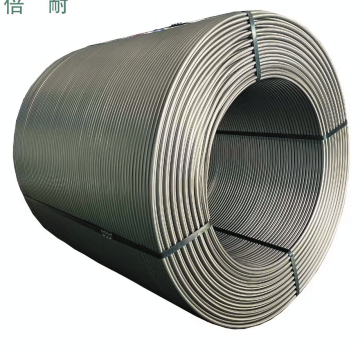
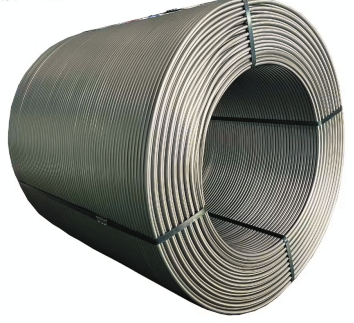
SEO improvements, certifications section, packing standards,   content updates

diff --git a/src/components/HomeView.tsx b/src/components/HomeView.tsx
@@ -1,6 +1,6 @@
 import React, { useState } from 'react';
 import { motion, AnimatePresence } from 'motion/react';
-import { ArrowRight, ChevronRight, Star, ShieldCheck, Factory, Award } from 'lucide-react';
+import { ArrowRight, ChevronRight, Star, ShieldCheck, Factory, Award, ZoomIn, X } from 'lucide-react';
 import { PRODUCTS } from '../data';
 import { Product } from '../types';
 
@@ -12,6 +12,7 @@ interface HomeViewProps {
 
 export default function HomeView({ setTab, onSelectProduct, onOpenCatalogueModal }: HomeViewProps) {
   const [hoveredProduct, setHoveredProduct] = useState<string | null>(null);
+  const [zoomedImage, setZoomedImage] = useState<{ src: string; name: string } | null>(null);
 
   const homeProducts = PRODUCTS;
 
@@ -29,7 +30,7 @@ export default function HomeView({ setTab, onSelectProduct, onOpenCatalogueModal
             className="space-y-8"
           >
             <h1 className="font-display text-4xl md:text-5xl lg:text-6xl font-extrabold text-white leading-tight tracking-tight">
-              Precision foundry alloys for a stronger world
+              Engineered Foundry Alloys. Consistent Chemistry. Global Delivery.
             </h1>
             <p className="font-sans text-lg text-surface-variant max-w-xl border-l-4 border-industrial-red pl-4 font-light">
               ISO 9001:2015 Certified | 25,000 MT/Year Capacity | 35+ Countries
@@ -102,7 +103,7 @@ export default function HomeView({ setTab, onSelectProduct, onOpenCatalogueModal
         <div className="max-w-[1440px] mx-auto px-6 md:px-12 w-full grid grid-cols-1 lg:grid-cols-2 gap-12 items-center">
           <div className="space-y-6">
             <h2 className="font-display text-3xl md:text-4xl font-bold text-dark-navy" id="about-snippet-title">
-              Uncompromising quality in metallurgy
+              Consistent nodularity, controlled chemistry, and reliable performance across SG iron foundries worldwide
             </h2>
             <div className="w-16 h-1.5 bg-industrial-red"></div>
             <p className="font-sans text-base text-on-variant leading-relaxed text-slate-600">
@@ -129,7 +130,7 @@ export default function HomeView({ setTab, onSelectProduct, onOpenCatalogueModal
         </div>
       </section>
 
-      {/* SECTION 4 - PRODUCTS GRID */}
+      {/* SECTION 5 - PRODUCTS GRID */}
       <section className="bg-surface-low py-20 md:py-28 w-full" id="products-grid-section">
         <div className="max-w-[1440px] mx-auto px-6 md:px-12 w-full">
           <div className="text-center mb-16">
@@ -149,14 +150,19 @@ export default function HomeView({ setTab, onSelectProduct, onOpenCatalogueModal
                 onMouseLeave={() => setHoveredProduct(null)}
               >
                 <div>
-                  <div className="relative w-32 h-32 rounded-full mx-auto mb-6 bg-slate-50 border-4 border-slate-100 flex items-center justify-center overflow-hidden">
-                    <img 
-                      alt={p.name} 
-                      className="w-full h-full object-cover transition-transform duration-500 hover:scale-110" 
-                      src={p.image} 
+                  <div
+                    className="relative w-32 h-32 rounded-full mx-auto mb-6 bg-slate-50 border-4 border-slate-100 overflow-hidden cursor-zoom-in group/img"
+                    onClick={(e) => { e.stopPropagation(); setZoomedImage({ src: p.image, name: p.name }); }}
+                  >
+                    <img
+                      alt={p.name}
+                      className="w-full h-full object-cover transition-transform duration-500 group-hover/img:scale-110"
+                      src={p.image}
                       referrerPolicy="no-referrer"
                     />
-                    <div className="absolute inset-0 bg-brand-primary/5 hover:bg-transparent transition-colors duration-300"></div>
+                    <div className="absolute inset-0 bg-black/0 group-hover/img:bg-black/20 transition-all duration-300 flex items-center justify-center">
+                      <ZoomIn className="text-white opacity-0 group-hover/img:opacity-100 transition-opacity duration-300" size={20} />
+                    </div>
                   </div>
                   <h3 className="font-display text-xl font-bold text-dark-navy mb-3">
                     {p.name}
@@ -180,7 +186,44 @@ export default function HomeView({ setTab, onSelectProduct, onOpenCatalogueModal
         </div>
       </section>
 
-      {/* SECTION 5 - UPCOMING FACILITY */}
+      {/* SECTION 5 - CERTIFICATIONS */}
+      <section className="bg-white border-b border-slate-100 py-12 w-full" id="certifications-section">
+        <div className="max-w-[1440px] mx-auto px-6 md:px-12 w-full">
+          <div className="text-center mb-8">
+            <span className="text-xs uppercase tracking-widest font-extrabold text-industrial-red font-mono">Certifications</span>
+            <h2 className="font-display text-2xl md:text-3xl font-bold text-dark-navy mt-2">Internationally Certified Quality</h2>
+          </div>
+          <div className="grid grid-cols-1 md:grid-cols-3 gap-6">
+            {[
+              { name: 'ISO 9001:2015', desc: 'Quality Management System', file: 'ISO 9001.pdf' },
+              { name: 'ISO 14001:2015', desc: 'Environmental Management System', file: 'ISO 14001.pdf' },
+              { name: 'ISO 45001:2018', desc: 'Occupational Health & Safety', file: 'ISO 45001.pdf' },
+            ].map((cert) => (
+              <div key={cert.name} className="flex flex-col items-center text-center border border-slate-200 rounded-lg p-6 bg-slate-50 hover:shadow-md transition-all duration-200 gap-4">
+                <div className="w-14 h-14 rounded-full bg-industrial-red/10 flex items-center justify-center">
+                  <svg xmlns="http://www.w3.org/2000/svg" width="26" height="26" viewBox="0 0 24 24" fill="none" stroke="currentColor" strokeWidth="2" strokeLinecap="round" strokeLinejoin="round" className="text-industrial-red">
+                    <circle cx="12" cy="8" r="6"/><path d="M15.477 12.89 17 22l-5-3-5 3 1.523-9.11"/>
+                  </svg>
+                </div>
+                <div>
+                  <h3 className="font-display font-extrabold text-dark-navy text-base">{cert.name}</h3>
+                  <p className="text-slate-500 text-xs mt-1">{cert.desc}</p>
+                </div>
+                <a
+                  href={`${import.meta.env.BASE_URL}certifications/${cert.file}`}
+                  download={cert.file}
+                  className="mt-auto inline-flex items-center gap-2 bg-brand-primary text-white text-xs font-bold uppercase tracking-wider px-4 py-2 rounded hover:bg-industrial-red transition-colors duration-200"
+                >
+                  <svg xmlns="http://www.w3.org/2000/svg" width="13" height="13" viewBox="0 0 24 24" fill="none" stroke="currentColor" strokeWidth="2.5" strokeLinecap="round" strokeLinejoin="round"><path d="M21 15v4a2 2 0 0 1-2 2H5a2 2 0 0 1-2-2v-4"/><polyline points="7 10 12 15 17 10"/><line x1="12" y1="15" x2="12" y2="3"/></svg>
+                  Download Certificate
+                </a>
+              </div>
+            ))}
+          </div>
+        </div>
+      </section>
+
+      {/* SECTION 6 - UPCOMING FACILITY */}
       <section className="w-full bg-[#031534] overflow-hidden relative" id="upcoming-facility-section">
         <div className="max-w-[1440px] mx-auto grid grid-cols-1 lg:grid-cols-2 min-h-[420px]">
           {/* Left — text */}
@@ -244,6 +287,43 @@ export default function HomeView({ setTab, onSelectProduct, onOpenCatalogueModal
           </button>
         </div>
       </section>
+      {/* Image zoom modal */}
+      <AnimatePresence>
+        {zoomedImage && (
+          <>
+            <motion.div
+              initial={{ opacity: 0 }}
+              animate={{ opacity: 1 }}
+              exit={{ opacity: 0 }}
+              className="fixed inset-0 bg-black/80 z-50 cursor-zoom-out"
+              onClick={() => setZoomedImage(null)}
+            />
+            <motion.div
+              initial={{ opacity: 0, scale: 0.85 }}
+              animate={{ opacity: 1, scale: 1 }}
+              exit={{ opacity: 0, scale: 0.85 }}
+              transition={{ duration: 0.2 }}
+              className="fixed inset-0 z-50 flex items-center justify-center p-8 pointer-events-none"
+            >
+              <div className="relative pointer-events-auto max-w-lg w-full">
+                <button
+                  onClick={() => setZoomedImage(null)}
+                  className="absolute -top-4 -right-4 bg-white rounded-full p-1.5 shadow-lg text-slate-700 hover:text-industrial-red transition-colors cursor-pointer z-10"
+                >
+                  <X size={18} />
+                </button>
+                <img
+                  src={zoomedImage.src}
+                  alt={zoomedImage.name}
+                  className="w-full h-auto rounded-lg shadow-2xl object-cover"
+                />
+                <p className="text-white text-center text-sm font-display font-bold mt-4 tracking-wide">{zoomedImage.name}</p>
+              </div>
+            </motion.div>
+          </>
+        )}
+      </AnimatePresence>
+
     </div>
   );
 }

diff --git a/src/components/ProductsView.tsx b/src/components/ProductsView.tsx
@@ -1,6 +1,6 @@
 import React, { useState } from 'react';
 import { motion, AnimatePresence } from 'motion/react';
-import { Search, SlidersHorizontal, ArrowRight, Sparkles } from 'lucide-react';
+import { Search, SlidersHorizontal, ArrowRight, Sparkles, X, ZoomIn } from 'lucide-react';
 import { PRODUCTS } from '../data';
 import { Product } from '../types';
 
@@ -14,6 +14,7 @@ interface ProductsViewProps {
 export default function ProductsView({ selectedProduct, setSelectedProduct, setTab, onOpenCatalogueModal }: ProductsViewProps) {
   const [searchQuery, setSearchQuery] = useState('');
   const [selectedTag, setSelectedTag] = useState<string>('All');
+  const [zoomedImage, setZoomedImage] = useState<{ src: string; name: string } | null>(null);
   
   const tags = ['All', 'Ferrosilicon Magnesium', 'Inoculants', 'Nickel Magnesium', 'Mould Powder', 'Ferro Silicon Magnesium Cored Wire'];
 
@@ -98,12 +99,18 @@ export default function ProductsView({ selectedProduct, setSelectedProduct, setT
                   }`}
                   id={`product-card-${p.id}`}
                 >
-                  <div className="relative w-24 h-24 rounded-full mx-auto mb-5 bg-slate-50 border-4 border-slate-100 overflow-hidden">
+                  <div
+                    className="relative w-36 h-36 rounded-full mx-auto mb-5 bg-slate-50 border-4 border-slate-100 overflow-hidden cursor-zoom-in group/img"
+                    onClick={(e) => { e.stopPropagation(); setZoomedImage({ src: p.image, name: p.name }); }}
+                  >
                     <img
                       alt={p.name}
                       src={p.image}
-                      className="w-full h-full object-cover transition-transform duration-500 hover:scale-110"
+                      className="w-full h-full object-cover transition-transform duration-500 group-hover/img:scale-110"
                     />
+                    <div className="absolute inset-0 bg-black/0 group-hover/img:bg-black/20 transition-all duration-300 flex items-center justify-center">
+                      <ZoomIn className="text-white opacity-0 group-hover/img:opacity-100 transition-opacity duration-300" size={22} />
+                    </div>
                   </div>
                   <div className="mb-3">
                     <h3 className="font-display font-extrabold text-dark-navy text-sm md:text-base leading-tight">
@@ -190,6 +197,43 @@ export default function ProductsView({ selectedProduct, setSelectedProduct, setT
           </AnimatePresence>
         </div>
       </div>
+
+      {/* Image zoom modal */}
+      <AnimatePresence>
+        {zoomedImage && (
+          <>
+            <motion.div
+              initial={{ opacity: 0 }}
+              animate={{ opacity: 1 }}
+              exit={{ opacity: 0 }}
+              className="fixed inset-0 bg-black/80 z-50 cursor-zoom-out"
+              onClick={() => setZoomedImage(null)}
+            />
+            <motion.div
+              initial={{ opacity: 0, scale: 0.85 }}
+              animate={{ opacity: 1, scale: 1 }}
+              exit={{ opacity: 0, scale: 0.85 }}
+              transition={{ duration: 0.2 }}
+              className="fixed inset-0 z-50 flex items-center justify-center p-8 pointer-events-none"
+            >
+              <div className="relative pointer-events-auto max-w-lg w-full">
+                <button
+                  onClick={() => setZoomedImage(null)}
+                  className="absolute -top-4 -right-4 bg-white rounded-full p-1.5 shadow-lg text-slate-700 hover:text-industrial-red transition-colors cursor-pointer z-10"
+                >
+                  <X size={18} />
+                </button>
+                <img
+                  src={zoomedImage.src}
+                  alt={zoomedImage.name}
+                  className="w-full h-auto rounded-lg shadow-2xl object-cover"
+                />
+                <p className="text-white text-center text-sm font-display font-bold mt-4 tracking-wide">{zoomedImage.name}</p>
+              </div>
+            </motion.div>
+          </>
+        )}
+      </AnimatePresence>
 
     </motion.div>
   );

diff --git a/src/components/InfrastructureView.tsx b/src/components/InfrastructureView.tsx
@@ -69,6 +69,42 @@ export default function InfrastructureView() {
         </div>
       </div>
 
+      {/* Packing Standards */}
+      <div className="bg-white w-full">
+        <div className="max-w-[1440px] mx-auto px-6 md:px-12 py-16 md:py-24 grid grid-cols-1 lg:grid-cols-2 gap-16 items-center">
+          <div className="order-2 lg:order-1 border border-surface-variant p-3 bg-surface-low rounded shadow-md group overflow-hidden">
+            <img
+              src={`${import.meta.env.BASE_URL}packingstandardimage.jpeg`}
+              alt="FeX Foundry Alloys Packing Standards"
+              className="w-full h-full object-cover rounded group-hover:scale-[1.01] transition-transform duration-500"
+            />
+          </div>
+          <div className="order-1 lg:order-2 space-y-6">
+            <div className="w-16 h-1.5 bg-industrial-red rounded"></div>
+            <h2 className="font-display text-3xl md:text-4xl font-extrabold text-dark-navy leading-tight">
+              Packing Standards
+            </h2>
+            <p className="text-slate-600 text-base leading-relaxed">
+              Every batch of alloy leaving our facility is packed to international shipping standards, ensuring product integrity from our plant to your foundry — whether domestic or export.
+            </p>
+            <ul className="space-y-3">
+              {[
+                'Moisture-proof inner lining to prevent oxidation',
+                'Heavy-duty woven bags and steel drums for lumps and powders',
+                'Clearly labelled with heat number, grade, and chemical composition',
+                'Palletised and shrink-wrapped for safe container loading',
+                'Customised packing available as per customer requirement',
+              ].map((item, i) => (
+                <li key={i} className="flex items-start gap-3">
+                  <CheckCircle className="text-industrial-red shrink-0 mt-0.5" size={16} />
+                  <span className="text-slate-600 text-sm leading-relaxed">{item}</span>
+                </li>
+              ))}
+            </ul>
+          </div>
+        </div>
+      </div>
+
       {/* Stats strip */}
       <div className="bg-brand-primary py-12 w-full">
         <div className="max-w-[1440px] mx-auto px-6 md:px-12 grid grid-cols-2 md:grid-cols-4 gap-8 text-center divide-y md:divide-y-0 md:divide-x divide-white/20">

diff --git a/index.html b/index.html
@@ -3,7 +3,12 @@
   <head>
     <meta charset="UTF-8" />
     <meta name="viewport" content="width=device-width, initial-scale=1.0" />
-    <title>FeX Foundry Alloys</title>
+    <title>FeX Foundry Alloys | Ferro Silicon Magnesium, Inoculants &amp; Foundry Solutions</title>
+    <meta name="description" content="Leading manufacturer of Ferro Silicon Magnesium, Inoculants, Mould Powder and Foundry Alloys. Exporting globally with consistent metallurgical performance." />
+    <meta property="og:title" content="FeX Foundry Alloys | Ferro Silicon Magnesium, Inoculants &amp; Foundry Solutions" />
+    <meta property="og:description" content="Leading manufacturer of Ferro Silicon Magnesium, Inoculants, Mould Powder and Foundry Alloys. Exporting globally with consistent metallurgical performance." />
+    <meta property="og:type" content="website" />
+    <meta name="robots" content="index, follow" />
   </head>
   <body>
     <div id="root"></div>